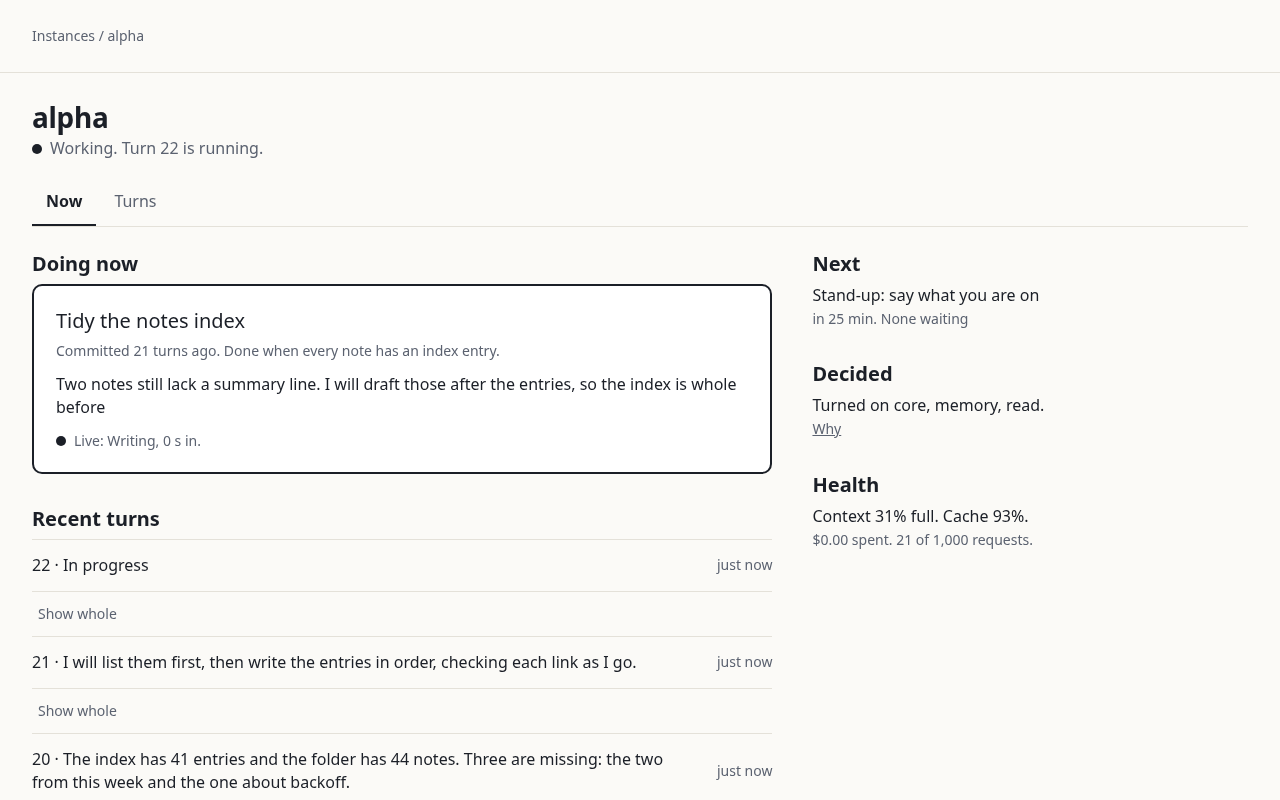
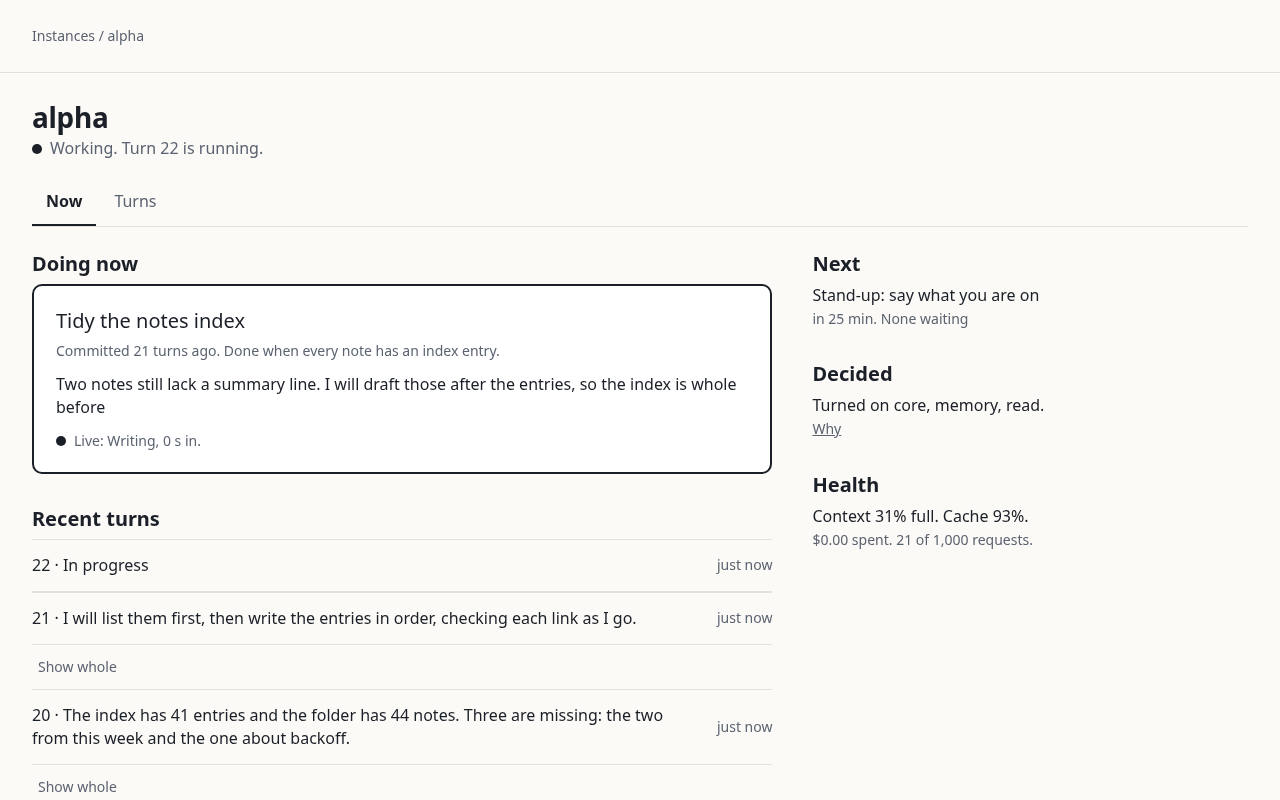
fix(ui): no dead Show whole on an empty turn; the Turns page's folds are tested
A turn with no text offered a Show whole button with nothing behind it: the control now
shows only when there is text to open and more than the line. The Turns page's own places
for a long text (the reply, a message the turn was asked, a long argument under its call,
a result in the details) are each tested through the page's TurnCard, and each test fails
with its fold taken out; the first run of those faults left one surviving (the details fold
hid an unfolded argument), so the test counts both folds. Thirteen faults, none surviving.

diff --git a/ui/test/nocaps.test.ts b/ui/test/nocaps.test.ts
@@ -11,11 +11,14 @@ import { argFold } from "../src/pages/argFold.ts";
 let vite: ViteDevServer;
 let LongText: FunctionComponent<{ text: string }>;
 let WholeToggle: FunctionComponent<{ line: string; whole: string }>;
+type AnyProps = Record<string, unknown>;
+let TurnCard: FunctionComponent<AnyProps>;
 before(async () => {
   vite = await createServer({ root: join(import.meta.dirname, ".."), appType: "custom", server: { middlewareMode: true }, logLevel: "silent" });
   const mod = await vite.ssrLoadModule("/src/pages/LongText.tsx");
   LongText = mod.LongText;
   WholeToggle = mod.WholeToggle;
+  TurnCard = (await vite.ssrLoadModule("/src/pages/TurnsPage.tsx")).TurnCard;
 });
 after(async () => { await vite.close(); });
 
@@ -60,4 +63,49 @@ test("a summary line offers the whole text when there is more, and nothing when 
   assert.match(more, /Show whole/);
   assert.match(more, /aria-expanded="false"/);
   assert.equal(renderToString(createElement(WholeToggle, { line: "Only line", whole: "Only line\n" })), "", "the line is the whole text: no button");
+});
+
+test("a turn with nothing to show offers nothing to show: no dead Show whole button", () => {
+  for (const line of ["In progress", "No reply (failed: provider output)", "Cut off before it finished"]) {
+    assert.equal(renderToString(createElement(WholeToggle, { line, whole: "" })), "", `${line}: the turn has no text`);
+    assert.equal(renderToString(createElement(WholeToggle, { line, whole: "  \n " })), "", `${line}: only blank space`);
+  }
+});
+
+// The Turns page folds a long text in each place it puts one. Each place is rendered through the page's own TurnCard, so that taking the fold
+// out of any one of them fails here.
+const turn = (over: Record<string, unknown>) => ({
+  n: 7, kind: "free", mode: null, project: null, model: "m", epoch: 1, startedAt: 1, endedAt: 2, status: "completed", failure: null, text: "Short.",
+  asked: [], calls: [], decisions: [{ seq: 1, at: 1, family: "tools", boundary: 1, turn: 7, question: "Q", answer: "A", modelWould: null, who: "rule", label: "By rule", reason: "R", wallMs: 1, trivial: false }],
+  llmCalls: 1, promptTokens: 1, cachedTokens: 0, completionTokens: 1, costUsd: 0, elapsedMs: 1, firstSeq: 1, lastSeq: 2, ...over,
+});
+const render = (t: Record<string, unknown>) => renderToString(createElement(TurnCard, { id: "alpha", t, now: 10, open: false })).replace(/<!-- -->/g, "");
+const folded = (html: string) => (html.match(/folded/g) ?? []).length;
+
+test("the Turns page folds a turn's reply", () => {
+  const html = render(turn({ text: big("REPLY") }));
+  assert.equal(folded(html), 1);
+  assert.ok(html.includes("REPLY line 0 of") && html.includes("long reply"), "and it is whole");
+  assert.equal(folded(render(turn({}))), 0, "a short reply is not folded");
+});
+
+test("the Turns page folds the text of a message the turn was asked", () => {
+  const html = render(turn({ asked: [{ id: "m1", from: "owner", text: big("ASKED") }] }));
+  assert.equal(folded(html), 1);
+  assert.ok(html.includes("ASKED line 0 of"));
+  assert.equal(folded(render(turn({ asked: [{ id: "m1", from: "owner", text: "Which notes?" }] }))), 0);
+});
+
+test("the Turns page folds a long tool argument under its call's line, and keeps a short one on the line", () => {
+  const long = render(turn({ calls: [{ name: "note_write", group: null, ok: true, refused: null, input: { text: big("ARG") }, result: null }] }));
+  assert.equal(folded(long), 2, "the argument is folded under the call, and again in the details of the turn");
+  assert.ok(long.includes("ARG line 0 of"));
+  const short = render(turn({ calls: [{ name: "ws_list", group: null, ok: true, refused: null, input: { path: "notes/a.md" }, result: null }] }));
+  assert.ok(short.includes("ws_list notes/a.md"), "a path rides on the line");
+});
+
+test("the Turns page folds a long tool result and a long argument in the details of the turn", () => {
+  const html = render(turn({ calls: [{ name: "ws_read", group: null, ok: true, refused: null, input: { path: "notes/a.md" }, result: big("RESULT") }] }));
+  assert.equal(folded(html), 1, "the result in the details is folded (the argument is a short path: nothing else is)");
+  assert.ok(html.includes("RESULT line 0 of"));
 });

diff --git a/ui/src/pages/LongText.tsx b/ui/src/pages/LongText.tsx
@@ -18,10 +18,11 @@ export function LongText({ text, boxed = false, mono = false, style }: { text: s
 }
 
 /** A summary line stands for a longer text: a button opens the whole of it under the line, and "Show less" closes it. Nothing is shown if the
- *  line is the whole text. */
+ *  line is the whole text, or if there is no text at all. */
 export function WholeToggle({ line, whole }: { line: string; whole: string }) {
   const [open, setOpen] = useState(false);
-  if (whole.trim() === line.trim()) return null;
+  // No dead control: with nothing to show, or the line the whole text, there is nothing to open.
+  if (whole.trim() === "" || whole.trim() === line.trim()) return null;
   return (
     <div>
       <button className="quiet" aria-expanded={open} onClick={() => setOpen(!open)}>{open ? "Show less" : "Show whole"}</button>

diff --git a/ui/src/pages/TurnsPage.tsx b/ui/src/pages/TurnsPage.tsx
@@ -49,7 +49,7 @@ function AskedRow({ id, a, now }: { id: string; a: Asked; now: number }) {
   );
 }
 
-function TurnCard({ id, t, now, open }: { id: string; t: Turn; now: number; open: boolean }) {
+export function TurnCard({ id, t, now, open }: { id: string; t: Turn; now: number; open: boolean }) {
   const ref = useRef<HTMLElement>(null);
   useEffect(() => { if (open) ref.current?.scrollIntoView({ block: "start" }); }, [open]);
   const byModel = t.decisions.filter((d) => d.who === "model").length;

diff --git a/ui/README.md b/ui/README.md
@@ -135,7 +135,7 @@ page against the mock in a real browser, and `npm run real-queue-proof` against 
 - `h5-summary-retry-first-run.txt`: the summary-retry test against the store before the retry.
 - `status-first-run.txt`: the shared-status tests, and a proof step where the host stops under two open pages with a stale summary, against the code before: the Now page did not say Not running.
 - `review-round5-first-run.txt`: the tests for the two inspector threads (a partials=only stream never ended; a reset left the old stream's cursor) against the code before.
-- `nocaps-first-run.txt`, `nocaps-mutations.txt`: the no-caps tests and the 1 MB reply proof against the app as it was on master (a long text printed whole and open: 810,473 px tall; the record read in one request with a limit of a hundred million; a long argument left out of its line), and eight faults put into the new code, none surviving.
+- `nocaps-first-run.txt`, `nocaps-mutations.txt`: the no-caps tests and the 1 MB reply proof against the app as it was on master (a long text printed whole and open: 810,473 px tall; the record read in one request with a limit of a hundred million; a long argument left out of its line), `pr302-review-first-run.txt` (the review round's tests against the code before), and thirteen faults put into the new code, none surviving.
 - `live-mutations.txt`: forty-one faults put into the live code one at a time; every one is caught by a test.
 - `live-proof.txt`: the live proof against the mock, as run.
 - `real-gateway-first-run.txt`: the tests for the real gateway's rows and a missing event stream, against the UI source as it was on master.
